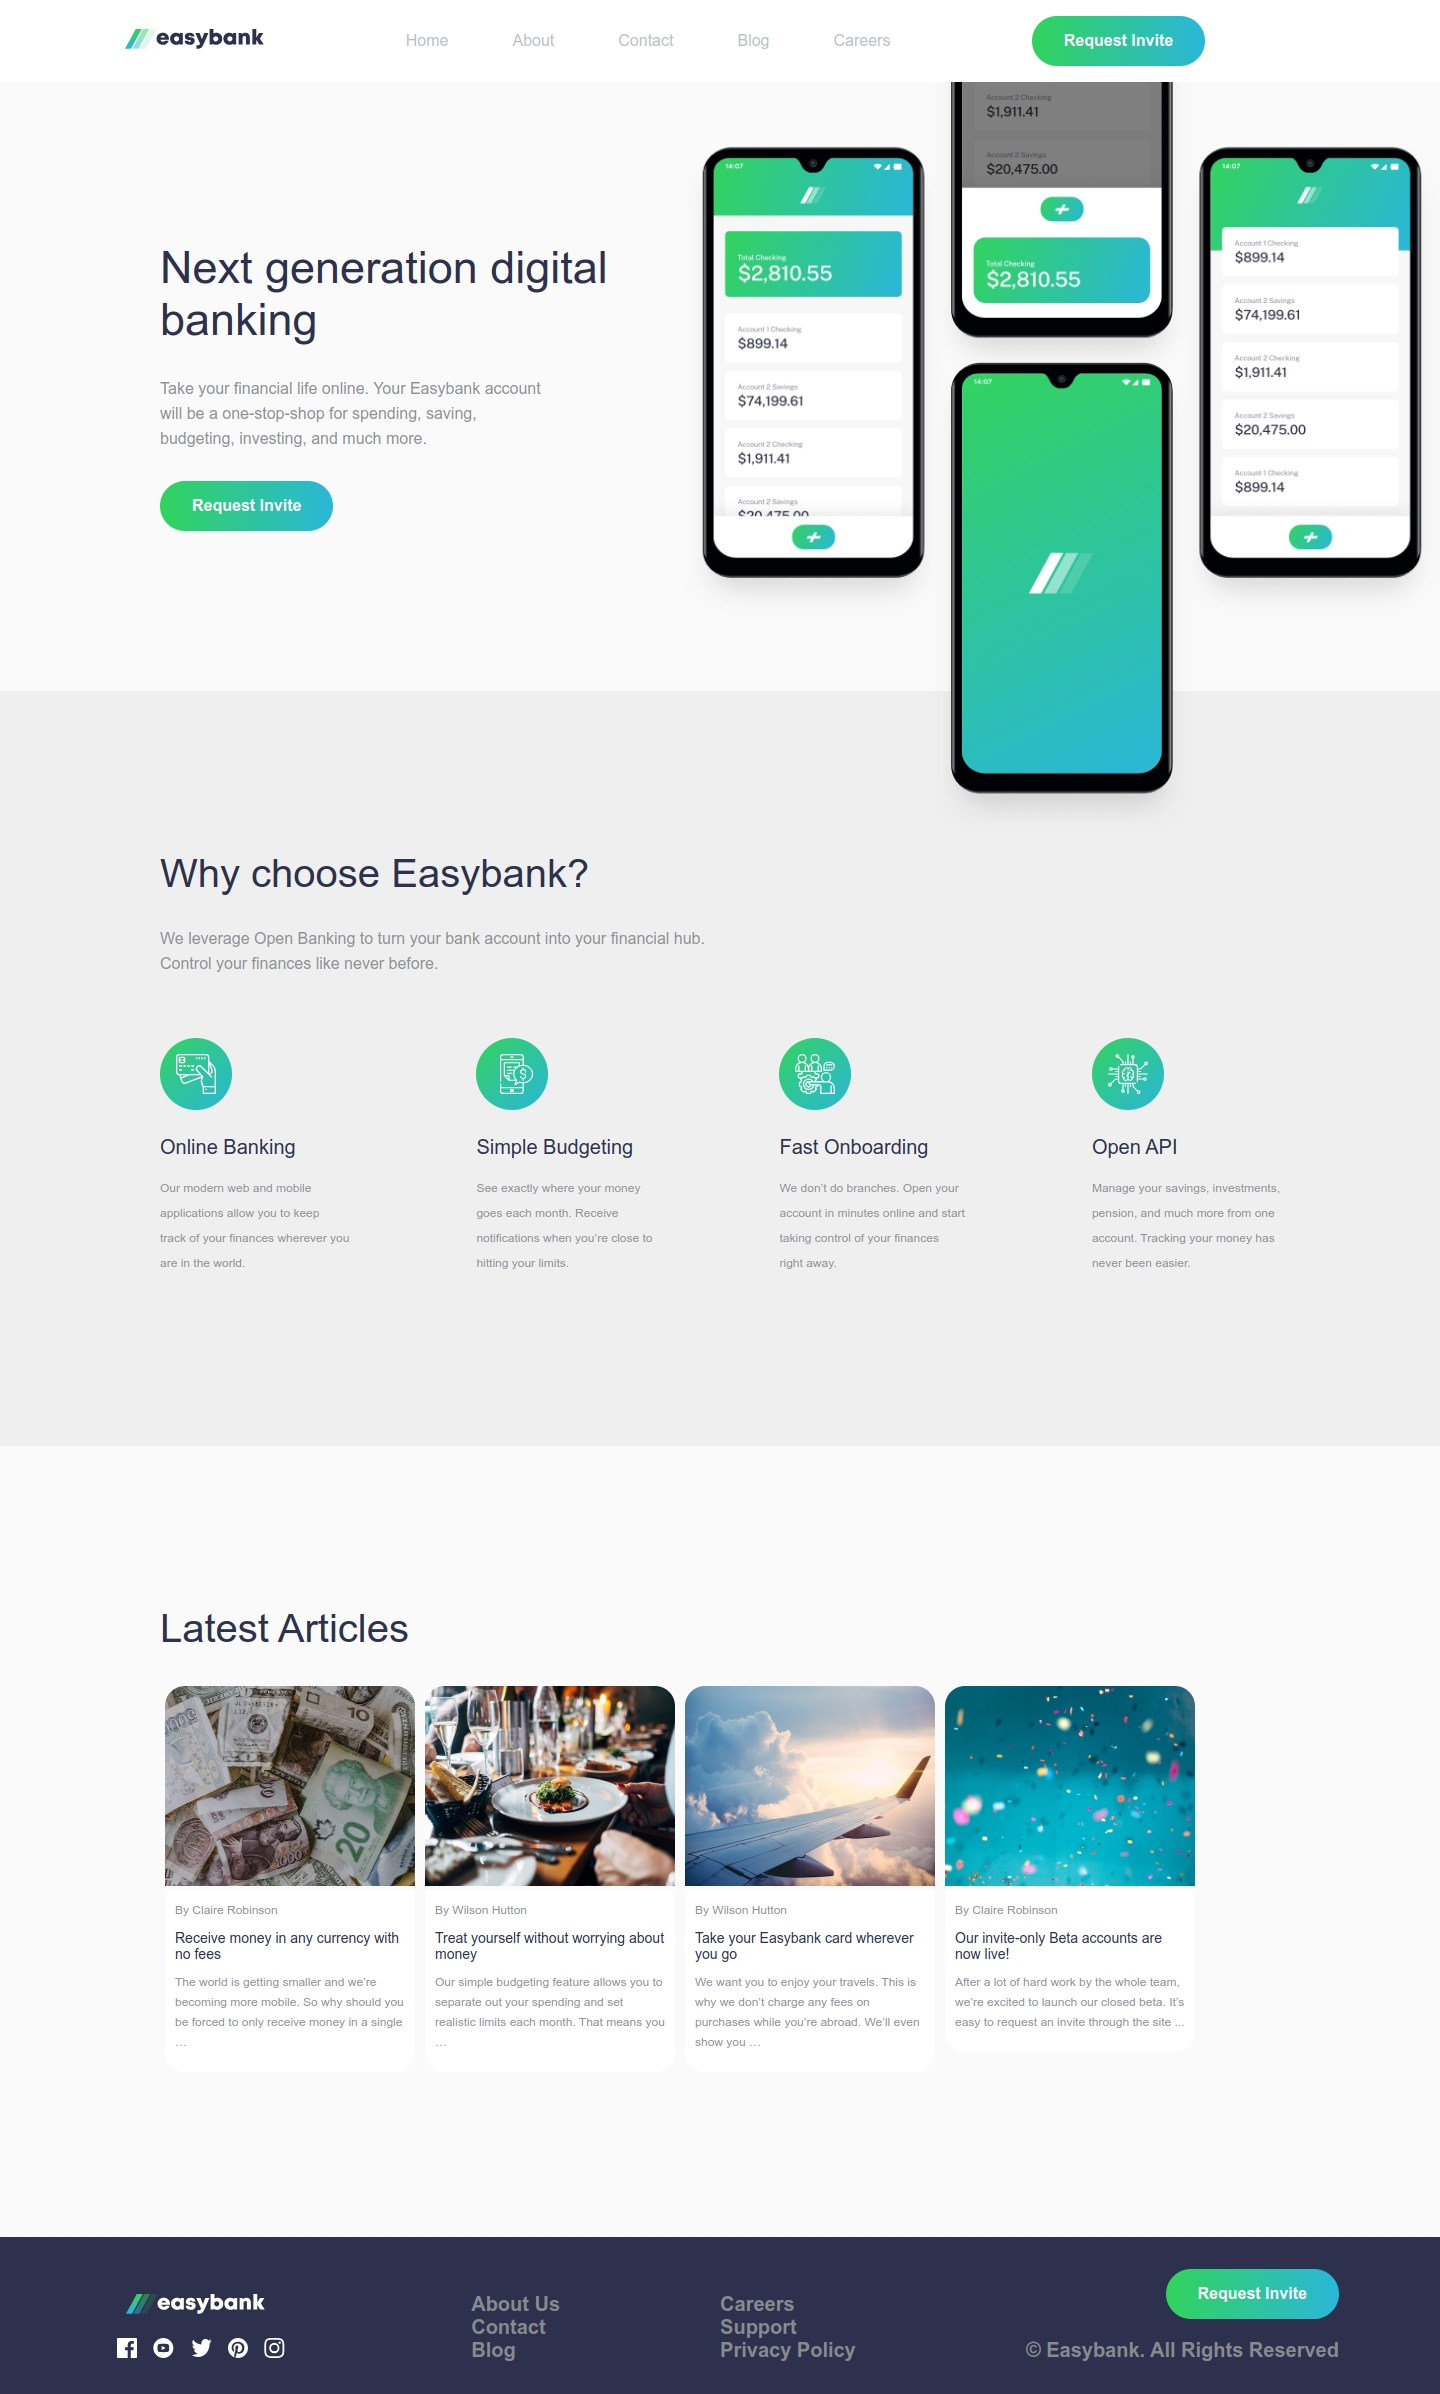
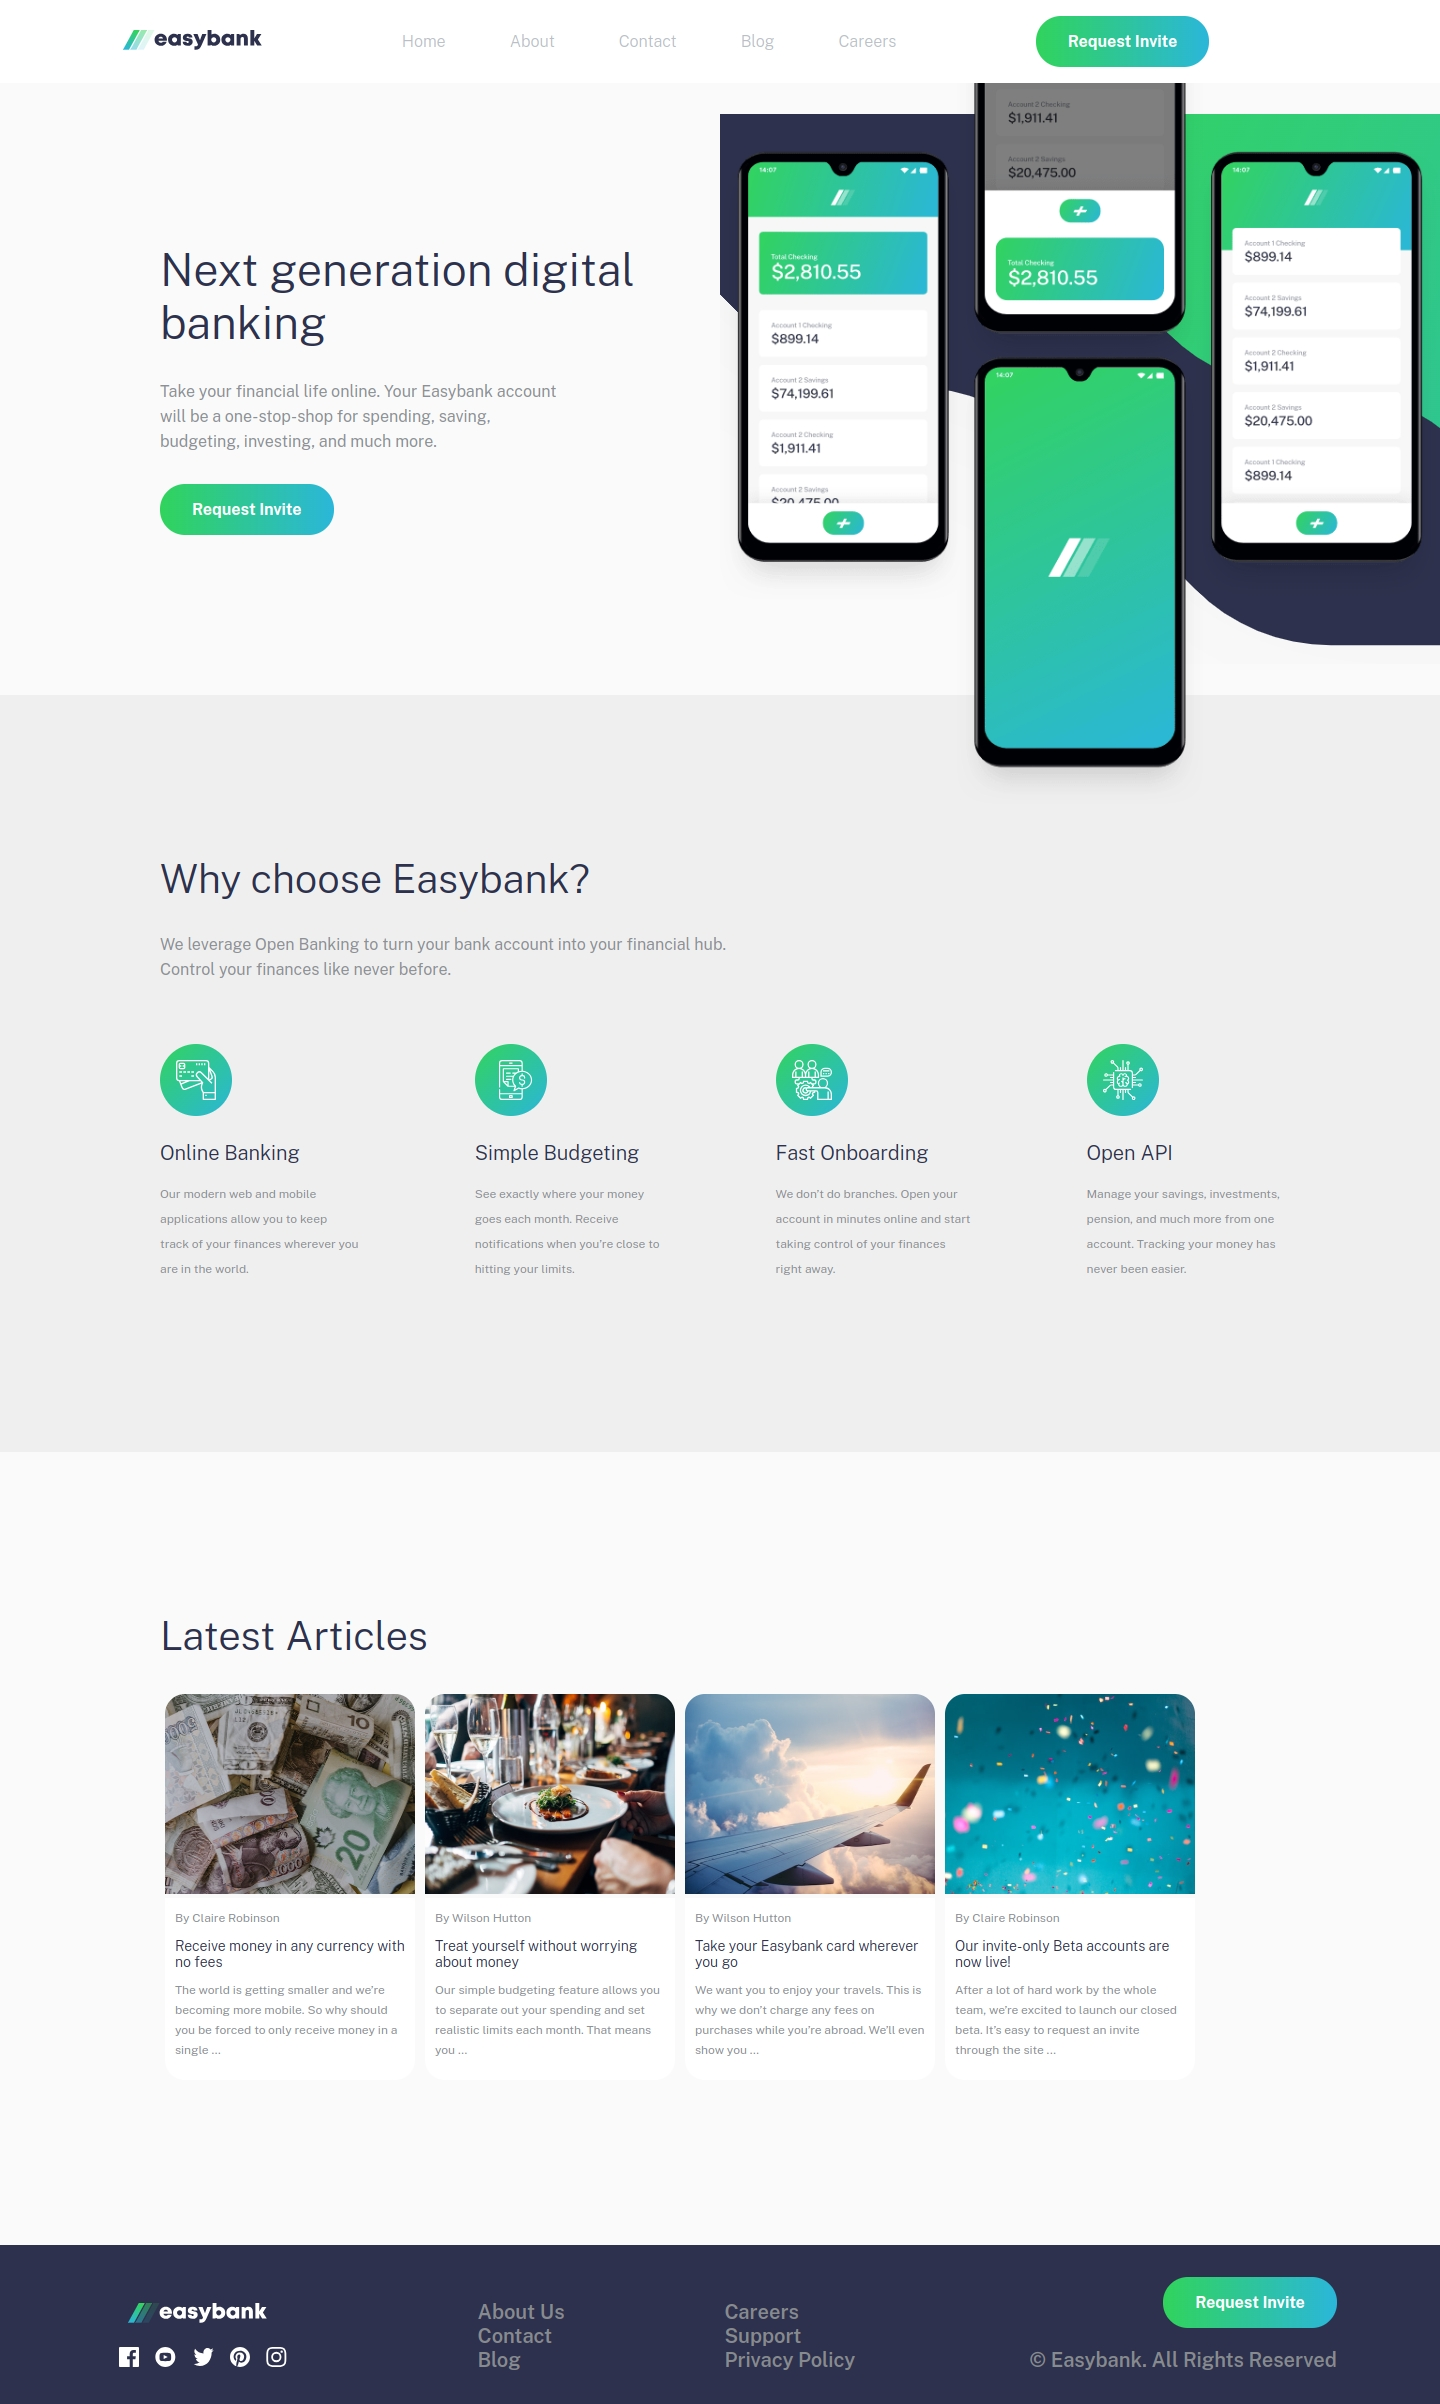
UI Update

diff --git a/styles.css b/styles.css
@@ -107,19 +107,20 @@
     line-height: 40px;
 }
 .intro-image {
-    position: relative;
-    display: block;
-    width: 100%;
-    background-image: url(Images/bg-intro-desktop.svg);
-    background-position: 3rem -15rem;
+    background-image: url(Images/bg-intro-mobile.svg);
+    background-size: cover;
+    background-position: center;
     background-repeat: no-repeat;
-} 
+    width: 50%;
+    height:550px;
+
+  }
 
   .intro-image img.mockups {
     position: absolute;
     right: 0;
-    top: -30rem;
-    width: 120%;
+    top: -10rem;
+    width: 50%;
   }
 
 
@@ -151,8 +152,8 @@
 
 .intro-text {
     /* padding: 5rem 0 5rem 5rem; */
-    width: 100%;
-    padding: 10rem;
+    width: 50%;
+    padding: 10rem 0 10rem 10rem;
 }
 .intro-header-text {
     color: hsl(233, 26%, 24%);
@@ -395,23 +396,21 @@ footer {
     flex-direction: column;
     width: 100%;
     padding: 1rem;
-
-}.intro-image {
-    position: relative;
-    display: block;
-    width: 100%;
-    background: url(Images/bg-intro-mobile.svg);
-    background-repeat: no-repeat;
-    background-size: cover;
-    -webkit-box-ordinal-group: 2;
-    -ms-flex-order: 1;
-    order: 1;
-    height: auto;
 }
+
+    .intro-image {
+        background-image: url(Images/bg-intro-mobile.svg);
+        background-size: cover;
+        background-position: center;
+        background-repeat: no-repeat;
+        width: 100%;
+        height:100%;
+    
+      }
 
 .intro-image img.mockups {
     position: absolute;
-    top: -15rem;
+    top: -10rem;
     width: 100%;
   }
 

diff --git a/index.html b/index.html
@@ -48,7 +48,7 @@
         <section class="panel-one">
             <div class="intro-text">
                 <h1 class="intro-header-text">
-                    Next generation digital banking
+                    Next generation digital <br>banking
                 </h1>
                 <p class="intro-desc">
                     Take your financial life online. Your Easybank account <br> will be a one-stop-shop 

diff --git a/readme.md b/readme.md
@@ -22,7 +22,7 @@ This is a solution to the [Easybank landing page challenge on Frontend Mentor](h
 - Live Site URL: [GitHub Live Site](https://atiloye.github.io/Easybank-Landing-Page-Assignment/)
 
 #### Note:
-- At the pushing of this site, I caught a little snag in trying to make the background image for the first panel show. I will revisit this later.
+- At the pushing of this site, I caught a little snag in trying to make the background image for the first panel scalable. I will revisit this later.
 
 ### Author
 
